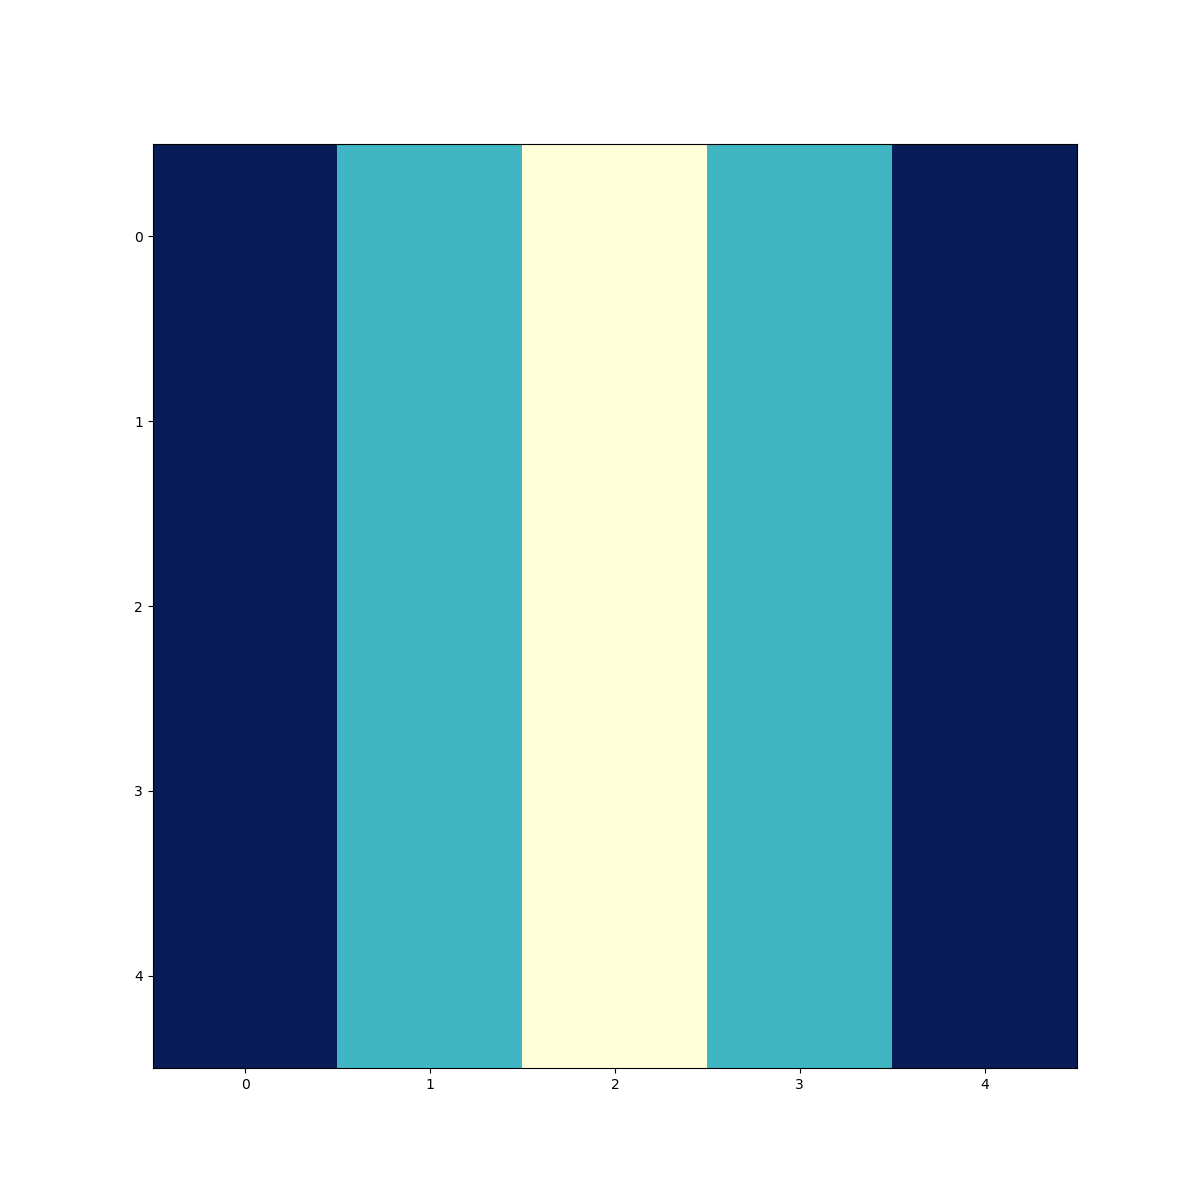
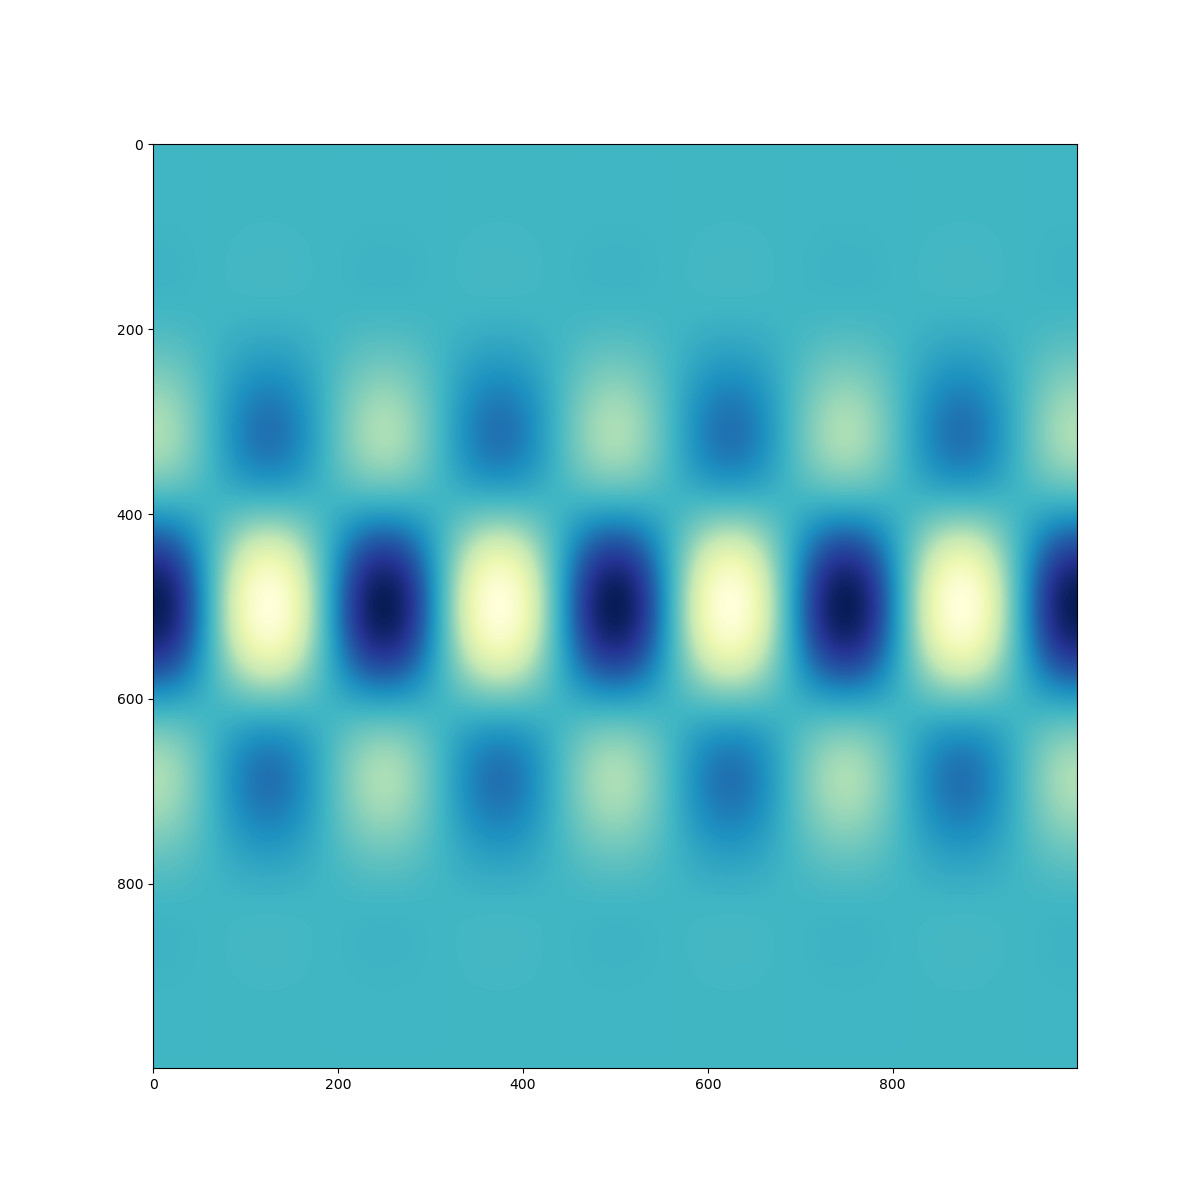
Add kernel tracing across all l for each m

diff --git a/pysht/c/run.py b/pysht/c/run.py
@@ -83,8 +83,8 @@ def synthesis_ringl():
     cuda_lib.synthesis_ringl.restype = None
 
     # Prepare data
-    lmax_ = 5
-    Nlat, Nlon = 5, 5
+    lmax_ = 10
+    Nlat, Nlon = 1000, 1000
     size_ = Nlat*Nlon
     output_array = np.zeros(shape=size_, dtype=np.double)
     ll = np.arange(lmax_+1)
